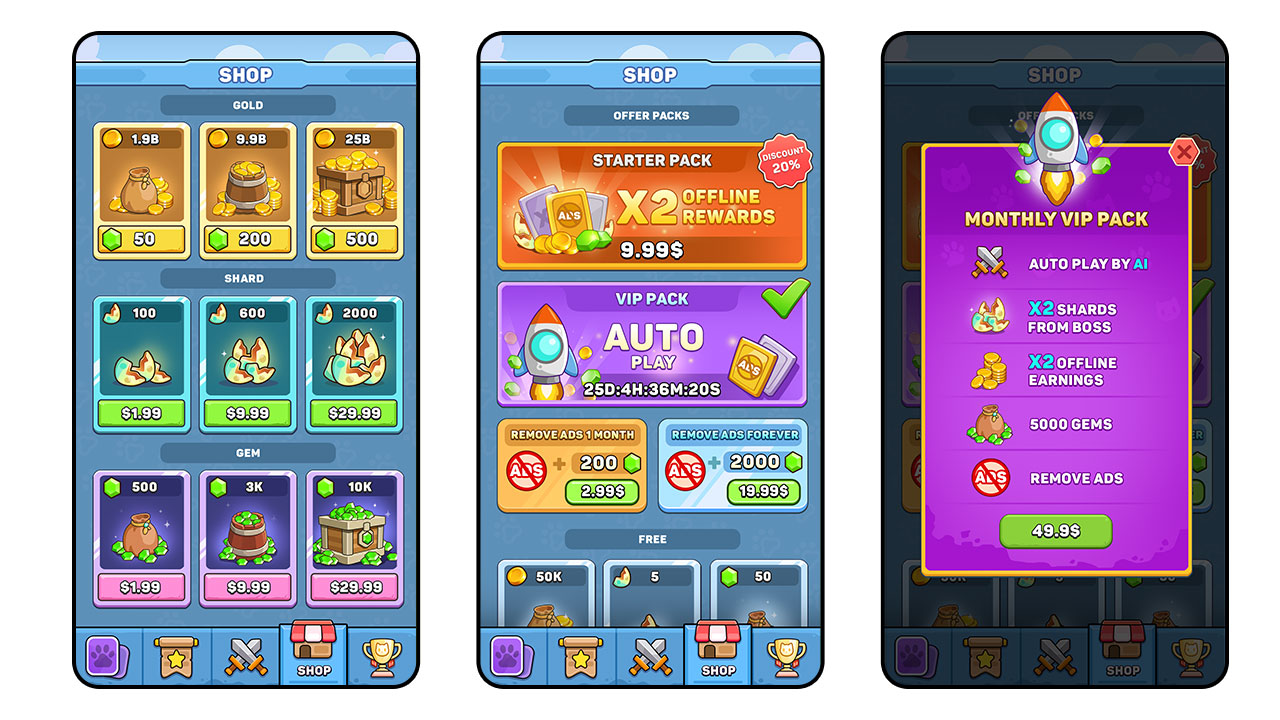
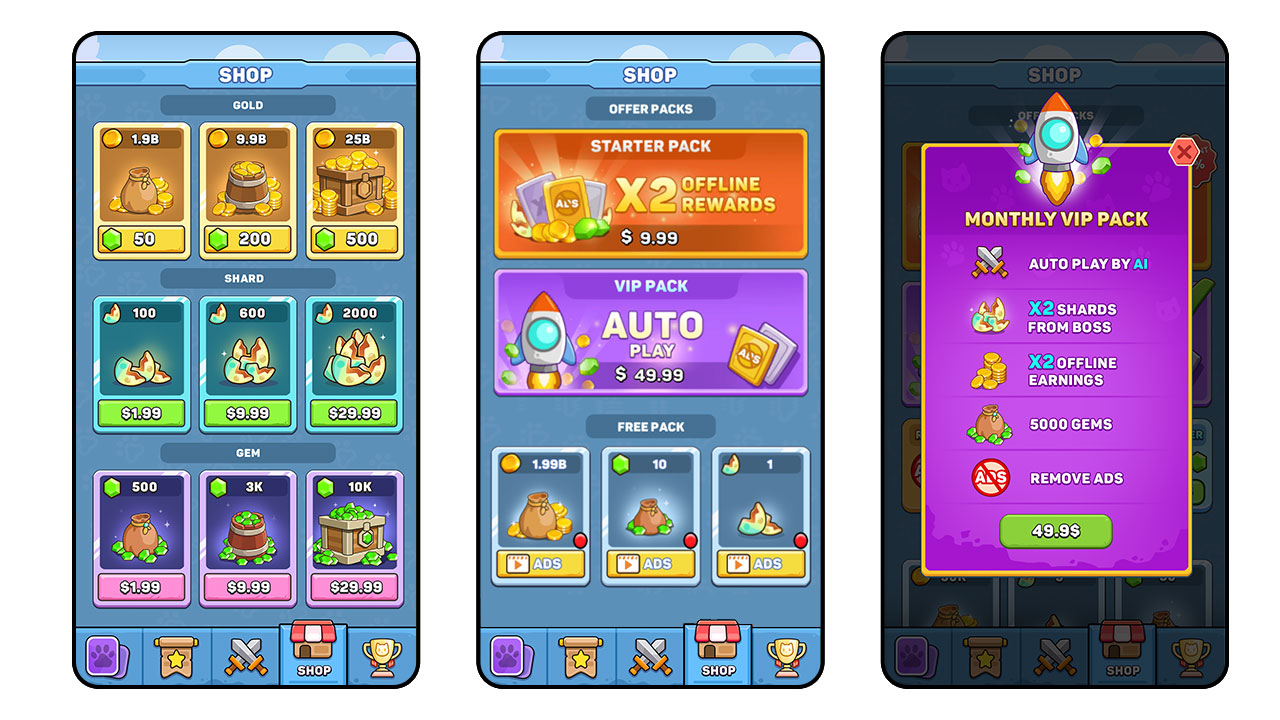
GITBOOK-20: No subject

Changed region(s): [[0.375, 0.1222, 0.6562, 0.8861]]

diff --git a/cat-battle/cat-promotion.md b/cat-battle/cat-promotion.md
@@ -14,6 +14,4 @@ In the _Cat Promotion_ feature, you have the chance to elevate your Cat Hero’s
 
 ⚠ Note: Success depends on the materials selected. If unsuccessful, the materials will be used, and promotion won’t be achieved.
 
-<figure><img src="broken-reference" alt=""><figcaption></figcaption></figure>
-
-<figure><img src="broken-reference" alt=""><figcaption></figcaption></figure>
+<figure><img src="../.gitbook/assets/cat-promotion.jpg" alt=""><figcaption></figcaption></figure>

diff --git a/cat-battle/map.md b/cat-battle/map.md
@@ -1,3 +1,5 @@
 # 🏝 Map
 
 The journey across the galaxy takes you through a series of diverse and challenging maps, deepen the story of your quest to protect the universe from invading aliens.
+
+<figure><img src="../.gitbook/assets/map.jpg" alt=""><figcaption></figcaption></figure>
